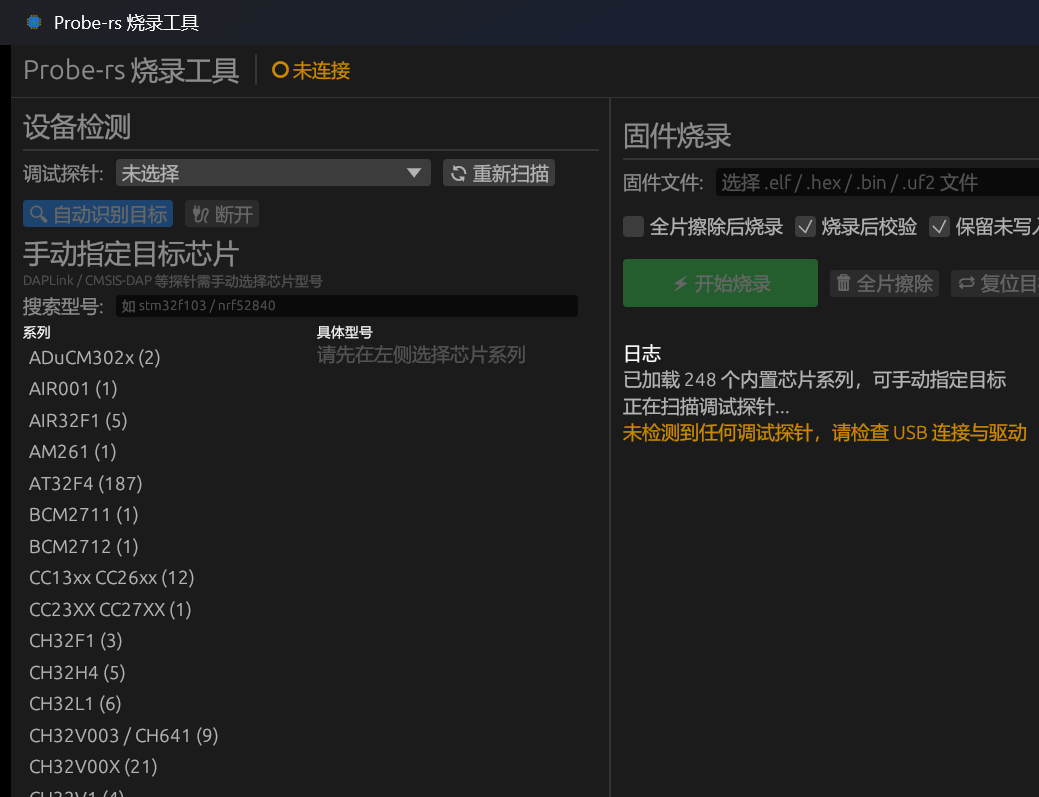
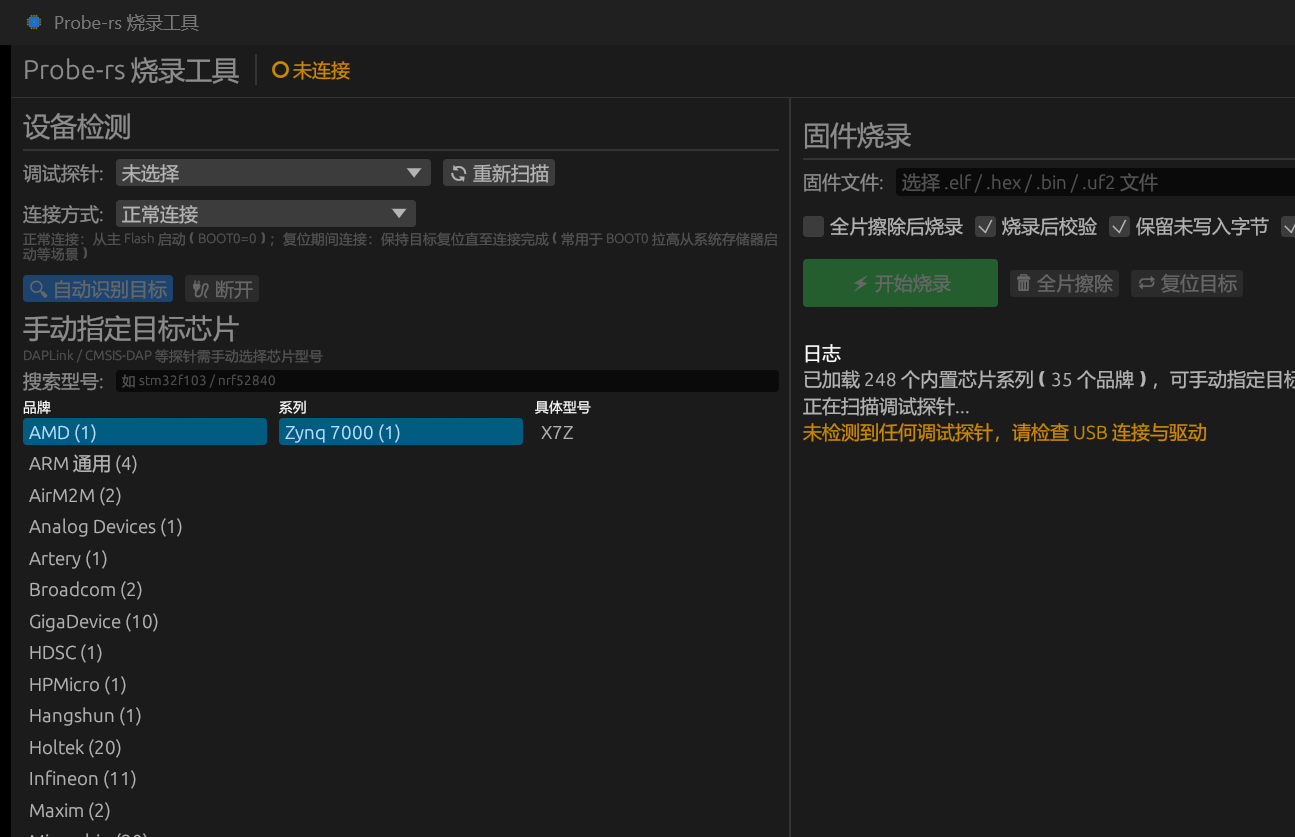
README 更新 RTT 说明与 Linux/macOS 构建包信息，更新截图

Changed region(s): [[0.0, 0.0, 1.0, 1.0]]

diff --git a/README-en.md b/README-en.md
@@ -21,8 +21,8 @@ It automatically detects debug probes, identifies target chips, supports manual 
 - ⚙ **Configurable options**: chip erase before flash, verify after flash, keep unwritten bytes, reset and run after flash.
 - 🗑 **Chip erase / target reset**: One-click operations.
 - 📊 **Progress display**: Real-time progress bars for erase, program, and verify; operations with an unknown total size (e.g. chip erase) show a spinner.
-- 📡 **RTT log monitor**: A bottom panel streams target RTT up-channel output in real time (channels are auto-labeled), and can send data to the target's down channel 0 via Enter or a button.
-- 🌐 **Bilingual UI**: Built-in CJK font loading (Microsoft YaHei / SimSun / PingFang / WenQuanYi); switch between 中文 and English from the top bar.
+- 📡 **RTT log monitor**: Disabled by default; once enabled, a bottom panel streams target RTT up-channel output in real time (channels are auto-labeled), and can send data to the target's down channel 0 via Enter or a button.
+- 🌐 **Bilingual UI**: Automatically loads an available CJK system font on Windows, macOS, or Linux; switch between 中文 and English from the top bar.
 - 🖼 **Icons**: Buttons have icons and the window uses a chip-style icon.
 
 ## Requirements
@@ -38,6 +38,10 @@ cargo build --release
 ```
 
 The executable is produced at `target/release/probe-rs-ui` (`probe-rs-ui.exe` on Windows). You can run it directly.
+
+### Linux / macOS packages
+
+Every push to `master` builds `.tar.gz` packages for Linux x86_64, macOS Intel, and macOS Apple Silicon with GitHub Actions. Download them from the relevant run's artifacts on the repository [Actions page](https://github.com/xian684/probe-rs-ui/actions/workflows/build-packages.yml).
 
 ## Usage
 

diff --git a/README.md b/README.md
@@ -21,8 +21,8 @@
 - ⚙ **可配置烧录选项**：全片擦除、烧录后校验、保留未写入字节、烧录后复位运行。
 - 🗑 **全片擦除 / 目标复位**：一键操作。
 - 📊 **进度显示**：擦除、编程、校验等操作进度条实时更新；总大小未知的操作（如全片擦除）显示旋转指示。
-- 📡 **RTT 日志监控**：底部面板实时显示目标 RTT 上行通道输出（多通道自动标注），并支持向目标下行通道 0 发送数据（回车或按钮）。
-- 🌐 **中英文界面**：内置 CJK 字体加载（微软雅黑 / 宋体 / 苹方 / 文泉驿），顶栏可切换中文 / English。
+- 📡 **RTT 日志监控**：默认关闭；启用后底部面板实时显示目标 RTT 上行通道输出（多通道自动标注），并支持向目标下行通道 0 发送数据（回车或按钮）。
+- 🌐 **中英文界面**：自动加载 Windows、macOS 与 Linux 上可用的 CJK 系统字体，顶栏可切换中文 / English。
 - 🖼 **图形化图标**：操作按钮带图标，程序窗口使用芯片样式图标。
 
 ## 系统要求
@@ -38,6 +38,10 @@ cargo build --release
 ```
 
 生成的可执行文件位于 `target/release/probe-rs-ui`（Windows 为 `probe-rs-ui.exe`），可直接双击运行。
+
+### Linux / macOS 构建包
+
+推送至 `master` 后，GitHub Actions 会自动生成 Linux x86_64、macOS Intel 和 macOS Apple Silicon 的 `.tar.gz` 包。构建完成后可在仓库的 [Actions](https://github.com/xian684/probe-rs-ui/actions/workflows/build-packages.yml) 页面下载对应运行的 artifacts。
 
 ## 使用方法
 
